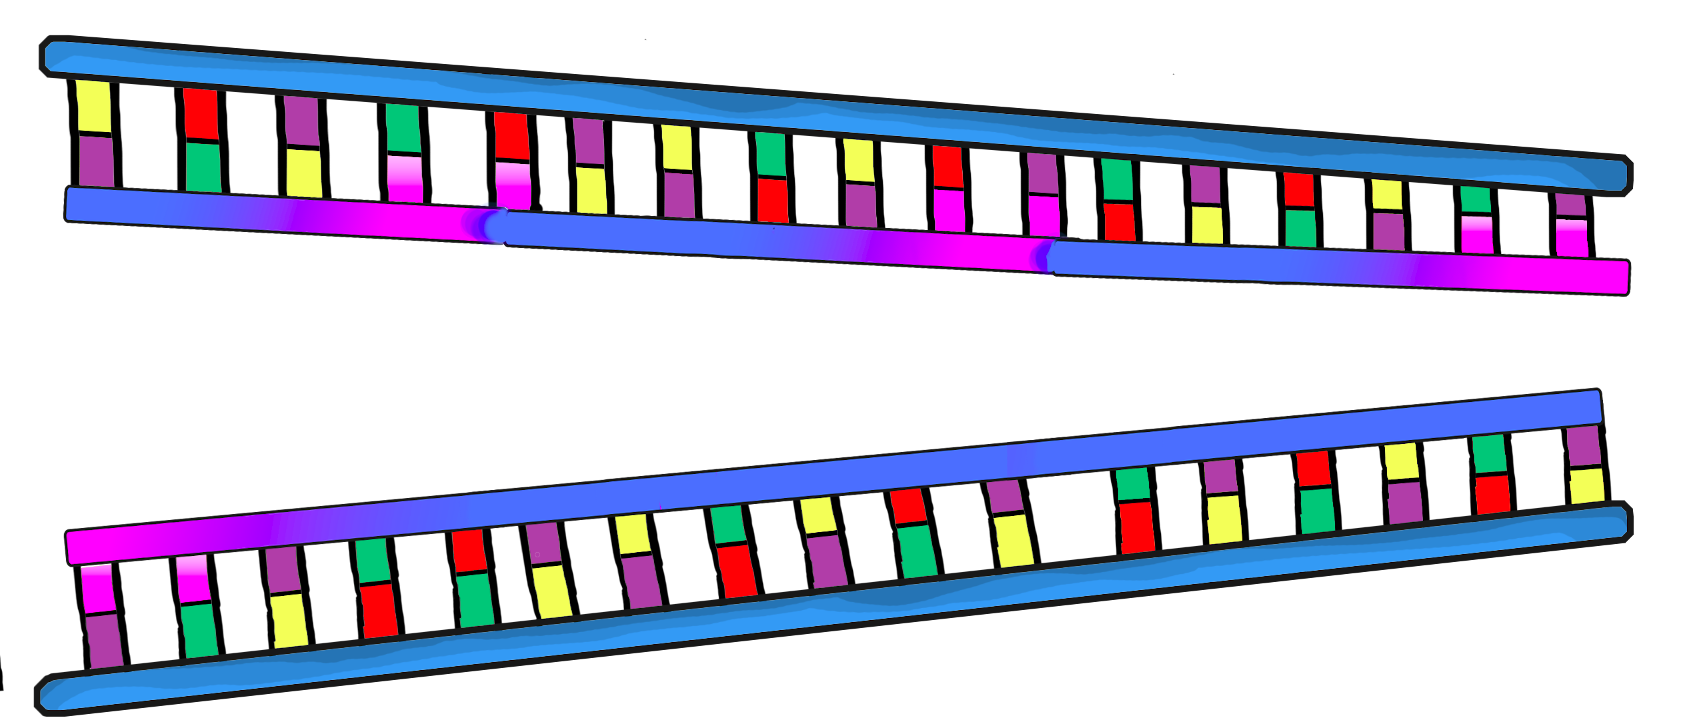
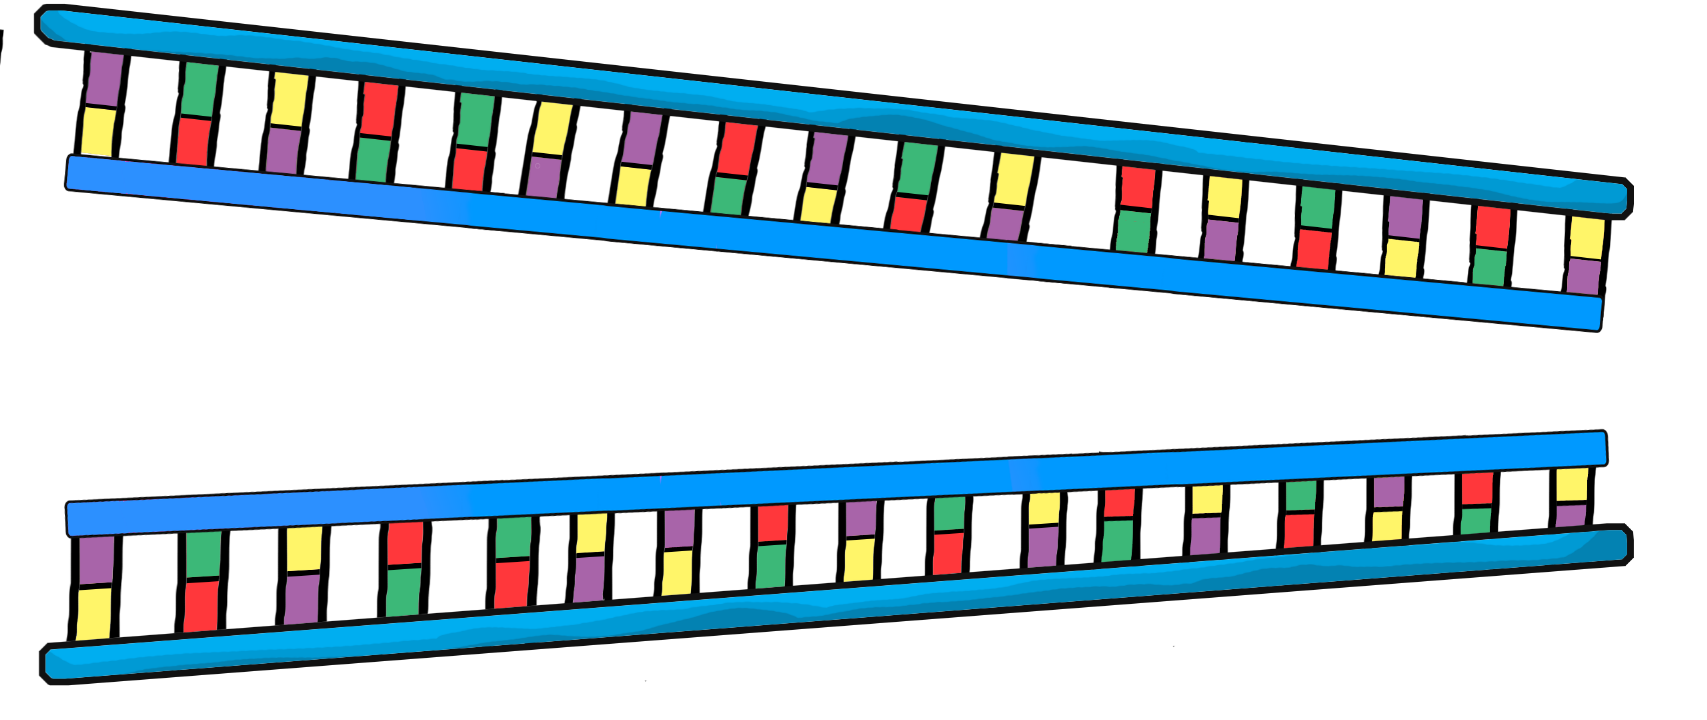
asdjgbwjhbga

diff --git a/src/ui/main_game_layer.py b/src/ui/main_game_layer.py
@@ -61,6 +61,8 @@ class MainGameLayer(cocos.layer.ScrollableLayer):
         # handling cases and problems in main game
         self.problem = {}
 
+        print(case)
+
         bgnum = 1
         if case == 1:
             self.problem['1'] = PinButton(157, 424, '../res/pin.png', 'helicase', self, self.profile, 0, self.choose_hero)
@@ -115,11 +117,14 @@ class MainGameLayer(cocos.layer.ScrollableLayer):
             self.problem['1'] = PinButton(85, 225, '../res/pin.png', 'ligase', self, self.profile, 0, self.choose_hero) if not self.profile.information['problems'][0] else None
             self.problem['2'] = PinButton(79, 568, '../res/pin.png', 'ligase', self, self.profile, 1, self.choose_hero) if not self.profile.information['problems'][1] else None
             if self.profile.information['problems'][0]:
-                self.dna.set_background(14)
-            elif self.profile.information['problems'][1]:
-                self.dna.set_background(15)
-            else:
                 self.dna.set_background(13)
+                print(13)
+            elif self.profile.information['problems'][1]:
+                self.dna.set_background(14)
+                print(14)
+            else:
+                self.dna.set_background(15)
+                print(15)
             bgnum = 1
             self.heroes_to_select = [3]
         else:

diff --git a/src/scenes/minigame1.py b/src/scenes/minigame1.py
@@ -46,11 +46,8 @@ class MiniGame1(cocos.scene.Scene):
 
         # bg = GameBackground('../res/minigame1/end/click anywhere to continue.png')
 
-        self.dp = cocos.sprite.Sprite(pyglet.image.load('../res/Profile_picture/Helicase_Active_Agent.png'), position=(350,665))
-        # self.dp = Button(350,665, '../res/Profile_picture/Helicase_Active_Agent.png', self, self.back, toAdjust=True)
+        self.dp = Button(350,665, '../res/Profile_picture/Helicase_Active_Agent.png', self, self.victory_action)
         self.add(self.dp, 11)
-
-        # jill_dorothy_monzon
 
         self.accomplished_targets = 0
         self.target_eliminated = False
